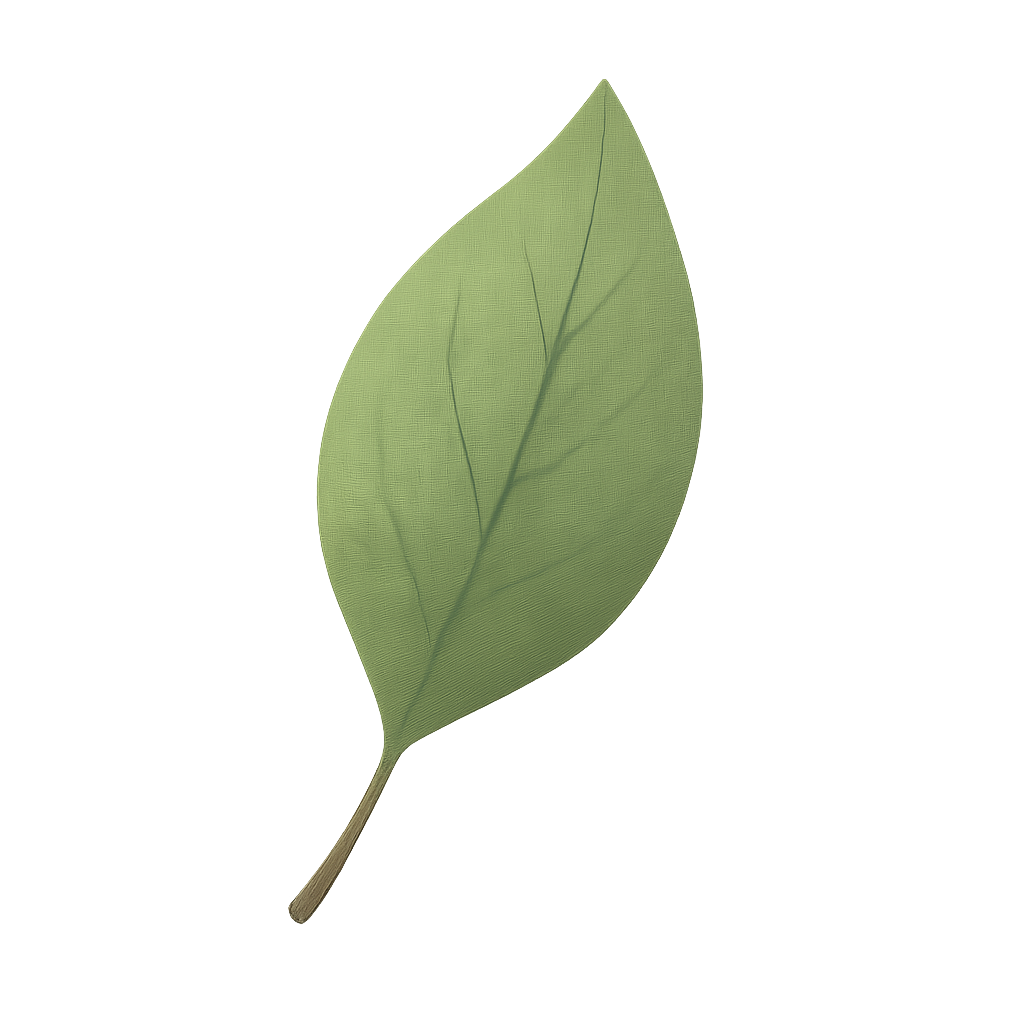
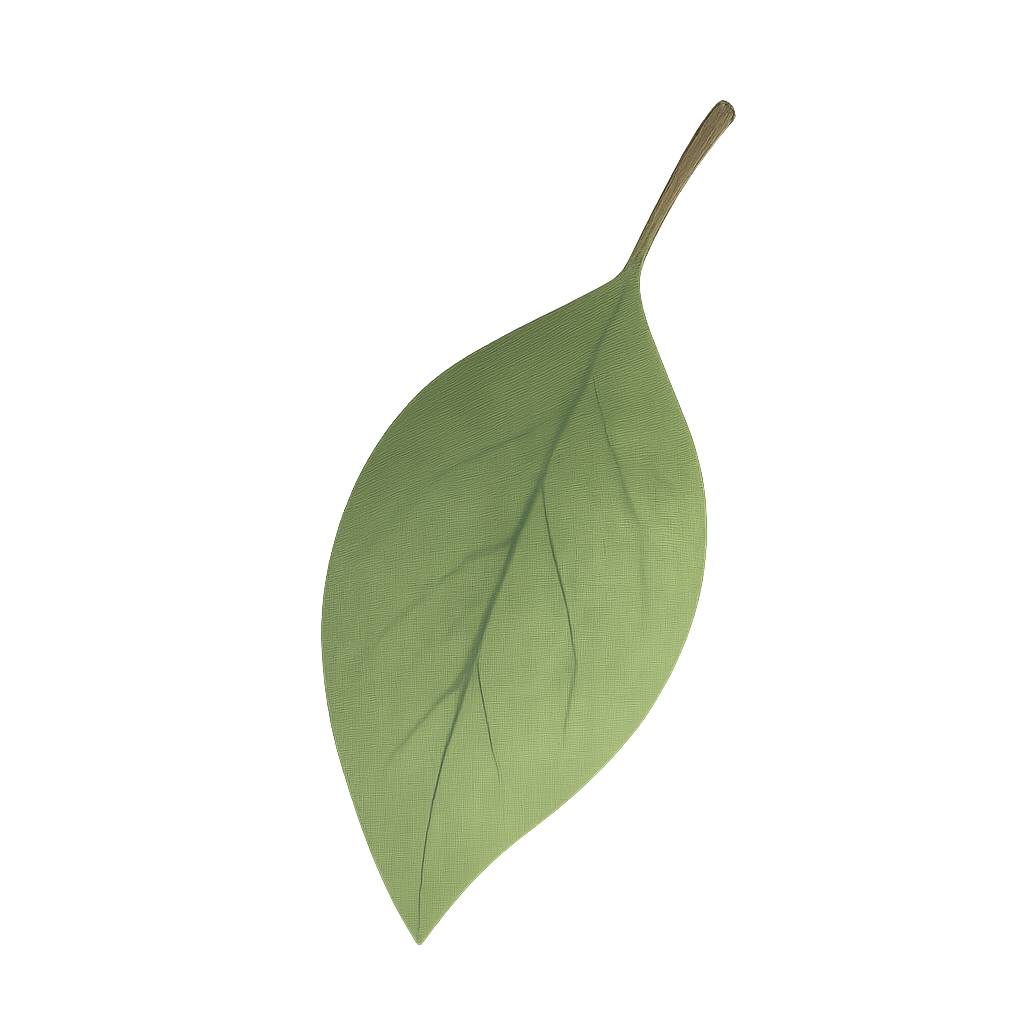
CambiosParticulas

Changed region(s): [[0.2812, 0.0625, 0.7188, 0.9375]]

diff --git a/public/js/main.js b/public/js/main.js
@@ -114,7 +114,7 @@ const html = document.documentElement; // importante, NO body
 const savedTheme = localStorage.getItem("themeMode");
 if (savedTheme === "dark") {
     html.classList.add("darkMode");
-    icon.textContent = "🌙";
+    icon.textContent = "☀";
 }
 
 toggleBtn.addEventListener("click", () => {
@@ -130,41 +130,56 @@ toggleBtn.addEventListener("click", () => {
 
 
 //VINES&PARTICLES//
+
 setInterval(() => {
     if (Math.random() < 0.6) createLeaf();  // probabilidad moderada
 }, 2000); // cada 3s revisa si lanza o no una hoja
 
 
+const leafImages = [
+    "/img/particle-leaf1.png",
+    "/img/particle-leaf2.png",
+    "/img/particle-leaf3.png",
+    "/img/particle-leaf4.png"
+];
+
 function createLeaf() {
     const leaf = document.createElement("img");
-    leaf.src = "/img/particle-leaf1.png";
+    leaf.src = leafImages[Math.floor(Math.random() * leafImages.length)];
     leaf.classList.add("falling-leaf");
 
-    // POSICIÓN ALEATORIA EN EL ALTO DEL VIEWPORT
-    const startY = Math.random() * window.innerHeight * 0.8 + "px";
+    // tamaño aleatorio
+    const size = Math.random() * 12 + 20; // entre 20 y 32px
+    leaf.style.width = size + "px";
 
-    // LATERAL (izquierda o derecha)
+    // Aparecen SOLO en los costados
     if (Math.random() < 0.5) {
-        leaf.style.left = Math.random() * 120 + "px";  // cerca de la vine izquierda
+    // Lado izquierdo (ajustá 0–10vw a gusto)
+    leaf.style.left = (Math.random() * 20) + "vw";
     } else {
-        leaf.style.right = Math.random() * 120 + "px"; // cerca de la vine derecha
+    // Lado derecho (ajustá 90–100vw a gusto)
+    leaf.style.left = (80 + Math.random() * 10) + "vw";
     }
 
-    // INICIO
-    leaf.style.top = startY;
-    
-    // VELOCIDAD LENTA
-    const duration = Math.random() * 6 + 10; // 10–16 segundos
-    leaf.style.animationDuration = duration + "s";
+    // altura inicial (ACA AJUSTÁS para que NO salgan desde el header)
+    leaf.style.top = (200 + Math.random() * 100) + "px";
 
-    // muy poca rotación
-    const rot = Math.random() * 15 - 7;
-    leaf.style.transform = `rotate(${rot}deg)`;
+    // rotación inicial custom property
+    const rot = Math.floor(Math.random() * 360) + "deg";
+    leaf.style.setProperty("--rot-start", rot);
+
+    // duración de la caída
+    const duration = Math.random() * 6 + 8; // 8–14s
+    leaf.style.animationDuration = duration + "s";
 
     document.body.appendChild(leaf);
 
     setTimeout(() => leaf.remove(), duration * 1000);
-}
+    }
+
+    // INTERVALO DE PARTICULAS.. AJUSTAR A GUSTO
+    setInterval(createLeaf, 800 + Math.random() * 1600);
+
 
 
 

diff --git a/public/css/main.css b/public/css/main.css
@@ -747,26 +747,37 @@ html.darkMode .elven-divider-bottom {
 .falling-leaf {
     position: fixed;
     width: 26px;
-    height: 26px;
+    height: auto;
     pointer-events: none;
     z-index: 5;
-    opacity: 0.7;
-    animation: leaf-float linear forwards;
-    top: 200px;
+    opacity: 0.85;
+    animation: leaf-fall linear forwards;
+    will-change: transform;
 }
 
-@keyframes leaf-float {
+/* caída con leve zig-zag */
+@keyframes leaf-fall {
     0% {
-        transform: translateY(0) rotate(0deg);
-        opacity: 0.8;
+        transform: translateX(0px) translateY(0px) rotate(var(--rot-start));
+    }
+    25% {
+        transform: translateX(-20px) translateY(25vh) rotate(calc(var(--rot-start) + 90deg));
+    }
+    50% {
+        transform: translateX(20px) translateY(50vh) rotate(calc(var(--rot-start) + 180deg));
+    }
+    75% {
+        transform: translateX(-15px) translateY(75vh) rotate(calc(var(--rot-start) + 270deg));
     }
     100% {
-        transform: translateY(200px) rotate(25deg);
+        transform: translateX(15px) translateY(100vh) rotate(calc(var(--rot-start) + 360deg));
         opacity: 0;
     }
 }
 
-
+body::-webkit-scrollbar {
+    display: none; /* Chrome, Safari, Edge moderno */
+}
 
 
 
